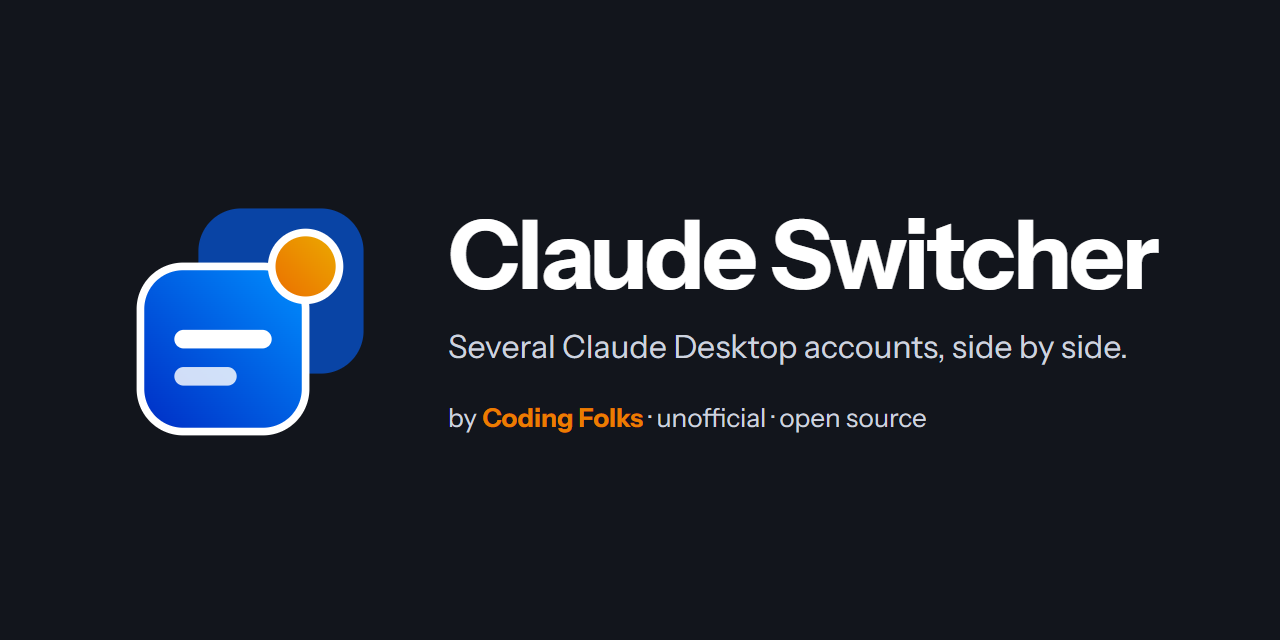
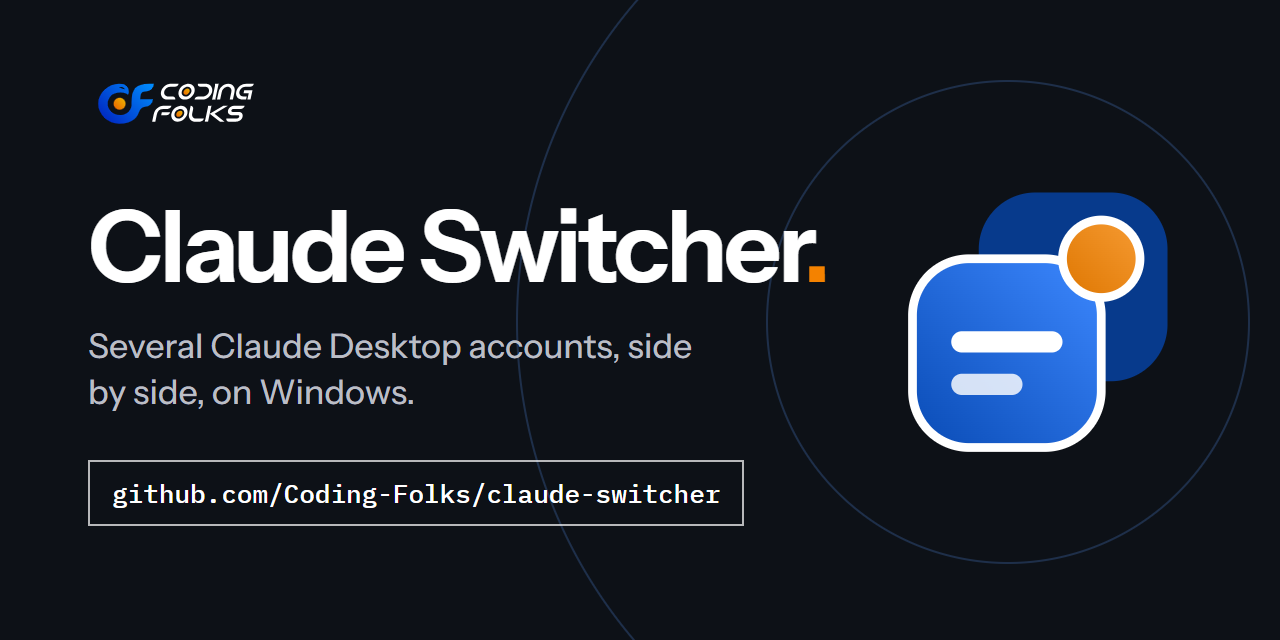
docs(brand): social preview and screenshots in the Coding Folks style

diff --git a/docs/design/design.md b/docs/design/design.md
@@ -101,7 +101,7 @@ Tambah akun baru lewat app dan login dengan akun ke-2. Shortcut lama `Claude (Ak
   2. Daftar akun (`ul`). Tiap baris: label; status teks ("Berjalan · 1,4 GB", "Mati", "Membuka…", "Bermasalah") dengan indikator bentuk/warna sebagai pelengkap; tombol utama **Buka** / **Tampilkan**; tombol menu "Opsi untuk <label>" (Tutup, Ganti nama, Perbaiki, Hapus).
   3. Tombol **Tambah akun** → form inline (label + Batal/Buat) dengan langkah progres yang diumumkan.
   4. Footer: "RAM bebas 9,2 GB" dan toggle "Jalan saat Windows mulai".
-- Arah visual ditentukan saat implementasi dengan skill `design-taste-frontend` (anti-slop): tipografi sistem (Segoe UI Variable), palet netral dengan satu aksen, tanpa gradien/glassmorphism/emoji dekoratif, mengikuti tema terang/gelap Windows.
+- Arah visual ditentukan saat implementasi dengan skill `design-taste-frontend` (anti-slop): tipografi sistem (Segoe UI Variable), palet netral dengan satu aksen, tanpa gradien/glassmorphism/emoji dekoratif, mengikuti tema terang/gelap Windows. _(Diganti 2026-11-19: panel kini memakai brand kit Coding Folks, lihat [branding-coding-folks.md](branding-coding-folks.md).)_
 
 ### Aksesibilitas (WCAG 2.2 AA)
 - HTML semantik (`button`, `ul/li`, `form`, `label`); ARIA hanya bila tidak ada padanan native. Menu opsi memakai pola menu button WAI-ARIA.

diff --git a/CHANGELOG.md b/CHANGELOG.md
@@ -18,6 +18,14 @@ and the project uses [Semantic Versioning](https://semver.org/).
   that account, and a "Claude – <name>" shortcut appears in the Start Menu under Claude Switcher.
   Main keeps Claude's own button, so existing pins are untouched.
 
+### Changed
+
+- The panel, app icon and social preview follow the Coding Folks brand kit: Instrument Sans with IBM
+  Plex Mono for numbers (bundled, never downloaded), the brand blue on the main button, the kit's
+  greys and rounded cards, and "by Coding Folks" in the footer. The app icon keeps its two cards and
+  orange dot in the kit's exact colours with the kit's app-icon corners. Contrast stays WCAG 2.2 AA in
+  light, dark and high-contrast.
+
 ### Fixed
 
 - Signing in with Google in a new account (this Windows user) finished in the Main account instead:

diff --git a/docs/design/branding-coding-folks.md b/docs/design/branding-coding-folks.md
@@ -1,6 +1,6 @@
 # Branding Coding Folks untuk Claude Switcher
 
-Status: desain, menunggu persetujuan · 2026-11-19
+Status: diimplementasikan · 2026-11-19
 
 ## Maksud
 
